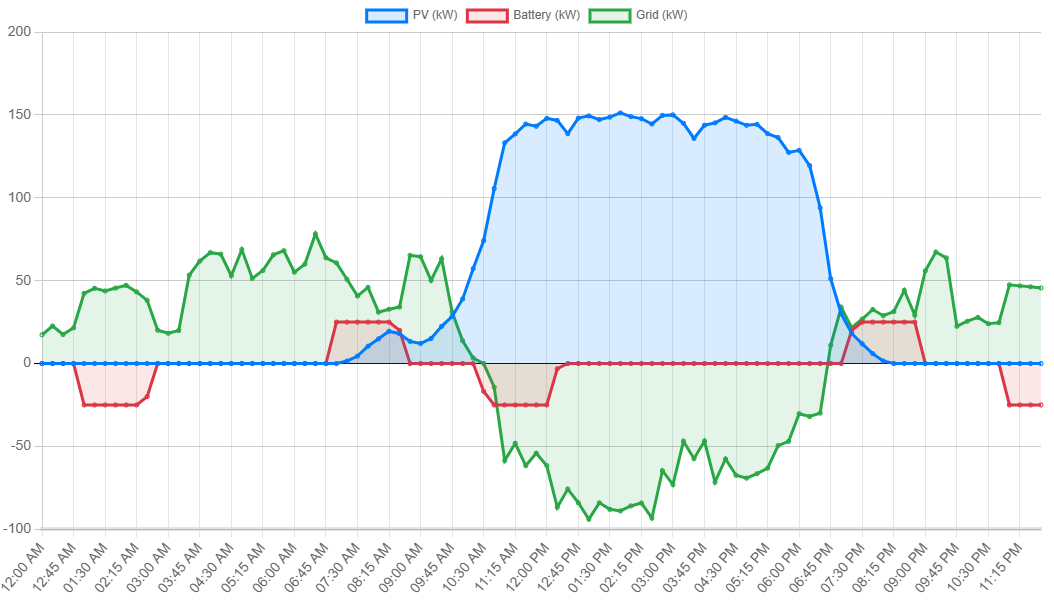
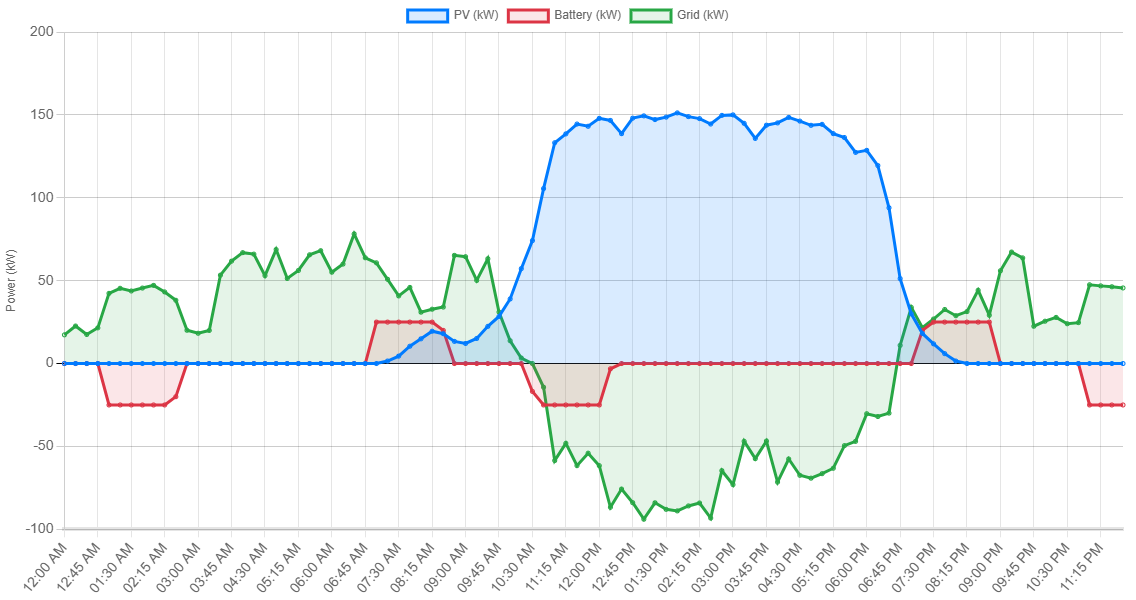
saved smooth on profile, now toggles between am/pm and 24h

diff --git a/resources/views/profile/edit.blade.php b/resources/views/profile/edit.blade.php
@@ -8,6 +8,26 @@
     <div class="py-12">
 
         <div class="max-w-7xl mx-auto sm:px-6 lg:px-8 space-y-6">
+
+            @if (session('status') === 'settings-updated')
+                <div id="settings-success-alert" class="mb-6 bg-green-100 border border-green-200 text-green-800 px-4 py-3 rounded relative flex items-center justify-between transition-all duration-1000 ease-in-out">
+                    <span>You successfully changed time format.</span>
+                </div>
+                <script>
+                    document.addEventListener('DOMContentLoaded', function() {
+                        setTimeout(function() {
+                            const alert = document.getElementById('settings-success-alert');
+                            if (alert) {
+                                alert.style.transition = 'opacity 1.2s cubic-bezier(0.4,0,0.2,1), margin-bottom 1.2s cubic-bezier(0.4,0,0.2,1)';
+                                alert.style.opacity = '0';
+                                alert.style.marginBottom = '0px';
+                                setTimeout(() => alert.remove(), 1300);
+                            }
+                        }, 2000);
+                    });
+                </script>
+            @endif
+
             <div class="flex flex-col md:flex-row md:space-x-6 space-y-6 md:space-y-0">
                 <div class="p-4 sm:p-8 bg-white shadow sm:rounded-lg w-full md:w-1/2">
                     <div class="max-w-xl">
@@ -23,8 +43,8 @@
                             <div class="mb-4">
                                 <label for="time_format" class="block font-medium mb-1">Time Format (Timeline/Charts)</label>
                                 <select name="time_format" id="time_format" class="form-select rounded border-gray-300">
-                                    <option value="24" {{ (auth()->user()->settings['time_format'] ?? '24') == '24' ? 'selected' : '' }}>24-hour</option>
-                                    <option value="12" {{ (auth()->user()->settings['time_format'] ?? '24') == '12' ? 'selected' : '' }}>12-hour (AM/PM)</option>
+                                    <option value="24" {{ ($user->settings['time_format'] ?? '24') == '24' ? 'selected' : '' }}>24-hour</option>
+                                    <option value="12" {{ ($user->settings['time_format'] ?? '24') == '12' ? 'selected' : '' }}>12-hour (AM/PM)</option>
                                 </select>
                             </div>
                             <button type="submit" class="px-4 py-2 bg-blue-600 text-white rounded hover:bg-blue-700 transition">Save Preferences</button>

diff --git a/app/Http/Controllers/PlantController.php b/app/Http/Controllers/PlantController.php
@@ -89,7 +89,7 @@ class PlantController extends Controller
 
 
     public function destroy(Plant $plant)
-    {    
+    {
         $plant->delete();
         Cache::forget('plants.with.mainFeeds.devices');
         return redirect()->route('plants.index')->with('message', 'Plant deleted successfully.');
@@ -98,7 +98,8 @@ class PlantController extends Controller
     public function show(Plant $plant)
     {
         $plant->load('mainFeeds.devices'); // Eager load to prevent N+1 and ensure data is available
-        return view('plants.show', compact('plant'));
+        $user = auth()->user();
+        return view('plants.show', compact('plant', 'user'));
     }
 
 }

diff --git a/routes/web.php b/routes/web.php
@@ -43,7 +43,12 @@ Route::middleware('auth')->group(function () {
 
     Route::put('/profile/settings', function (Request $request) {
         $user = $request->user();
-        $settings = $user->settings ?? [];
+        $settings = $user->settings;
+        if (is_string($settings)) {
+            $settings = json_decode($settings, true) ?: [];
+        } elseif (!is_array($settings)) {
+            $settings = [];
+        }
         $settings['time_format'] = $request->input('time_format', '24');
         $user->settings = $settings;
         $user->save();

diff --git a/resources/views/plants/partials/plant-chart.blade.php b/resources/views/plants/partials/plant-chart.blade.php
@@ -223,7 +223,7 @@ document.addEventListener("DOMContentLoaded", async function () {
 });
 
 // Get user time format preference from backend (default to 24)
-const userTimeFormat = @json(auth()->user()->settings['time_format'] ?? '24');
+const userTimeFormat = @json($user->settings['time_format'] ?? '24');
 
 function formatLabelDate(ts) {
     const date = isNaN(ts) ? new Date(ts) : new Date(Number(ts));

diff --git a/resources/views/plants/show.blade.php b/resources/views/plants/show.blade.php
@@ -44,7 +44,7 @@
                 </div>
 
                 <!-- CHARTS -->
-                @include('plants.partials.plant-chart')
+                @include('plants.partials.plant-chart', ['user' => $user])
 
                 <!-- DEVICES LIST -->
                 @include('plants.partials.devices-list')

diff --git a/app/Models/User.php b/app/Models/User.php
@@ -57,6 +57,7 @@ class User extends Authenticatable
         return [
             'email_verified_at' => 'datetime',
             'password' => 'hashed',
+            'settings' => 'array',
         ];
     }
     /**
